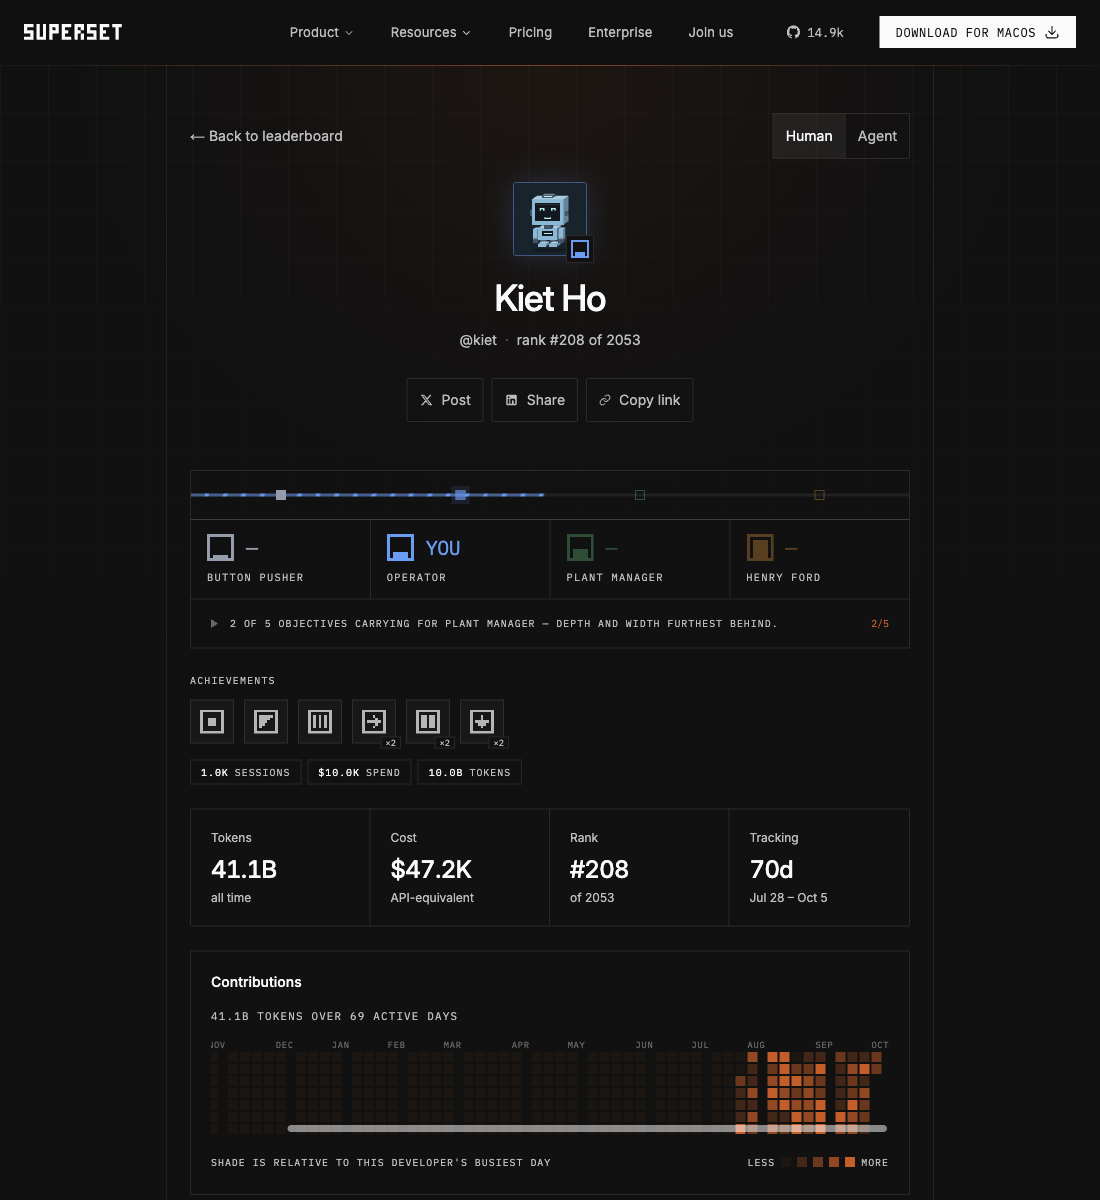
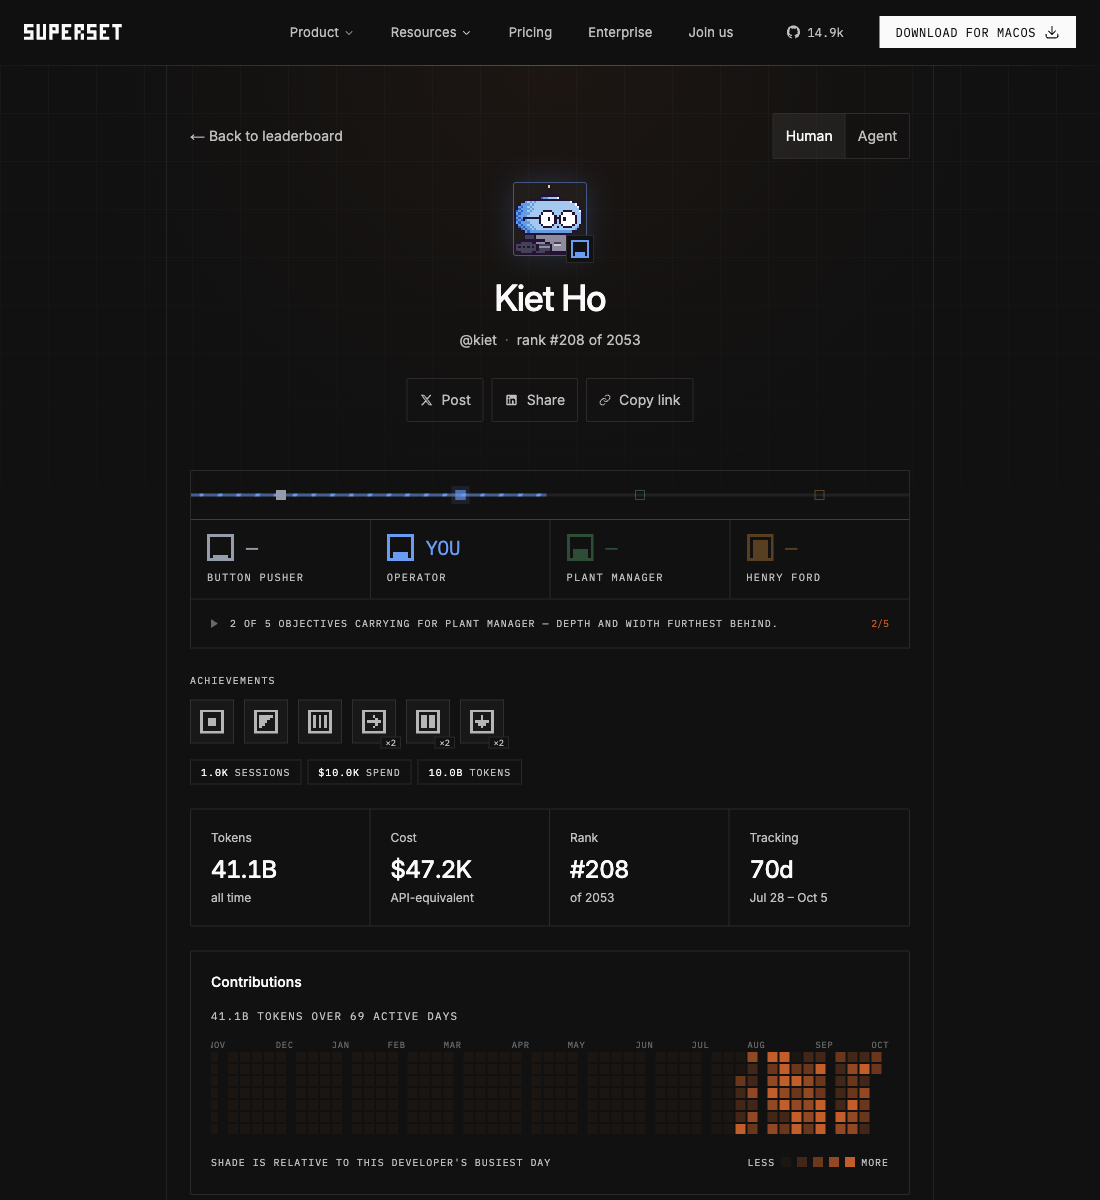
refactor(marketing): share Pixabots identities across profiles and fights

Changed region(s): [[0.2473, 0.925, 0.8036, 0.9558], [0.4636, 0.1542, 0.5255, 0.2158]]

diff --git a/apps/marketing/src/app/[lang]/fight/components/FighterSprite/FighterSprite.tsx b/apps/marketing/src/app/[lang]/fight/components/FighterSprite/FighterSprite.tsx
@@ -1,5 +1,5 @@
-import { seededId } from "@pixabots/core";
 import { Pixabot } from "@pixabots/react";
+import { avatarId } from "@/app/[lang]/utils/avatarUrl";
 import type { FrameName } from "./frames";
 
 interface FighterSpriteProps {
@@ -27,7 +27,7 @@ export function FighterSprite({
 	const running = frame === "run1" || frame === "run3";
 	return (
 		<Pixabot
-			id={seededId(identity.toLowerCase())}
+			id={avatarId(identity)}
 			size={256}
 			animated={false}
 			alt={title}

diff --git a/apps/marketing/src/app/[lang]/utils/avatarUrl/avatarUrl.ts b/apps/marketing/src/app/[lang]/utils/avatarUrl/avatarUrl.ts
@@ -1,3 +1,9 @@
+import { seededId } from "@pixabots/core";
+
+export function avatarId(handle: string): string {
+	return seededId(handle.toLowerCase());
+}
+
 export function avatarUrl(handle: string): string {
-	return `/api/leaderboard-avatar/${encodeURIComponent(handle.toLowerCase())}?v=2`;
+	return `https://pixabots.com/api/pixabot/${avatarId(handle)}?size=256`;
 }

diff --git a/apps/marketing/src/app/[lang]/user/[handle]/page.tsx b/apps/marketing/src/app/[lang]/user/[handle]/page.tsx
@@ -133,7 +133,7 @@ export default async function UserProfilePage({ params }: PageProps) {
 						width={72}
 						height={72}
 						unoptimized
-						className="size-18 rounded-[2px] bg-foreground/[0.04]"
+						className="size-18 rounded-[2px] bg-foreground/[0.04] [image-rendering:pixelated]"
 						style={
 							tint
 								? {

diff --git a/apps/marketing/src/app/[lang]/leaderboard/components/LeaderboardBoard/components/LeaderboardTable/components/DeveloperAvatar/DeveloperAvatar.tsx b/apps/marketing/src/app/[lang]/leaderboard/components/LeaderboardBoard/components/LeaderboardTable/components/DeveloperAvatar/DeveloperAvatar.tsx
@@ -11,7 +11,7 @@ export function DeveloperAvatar({ handle }: { handle: string }) {
 			width={SIZE}
 			height={SIZE}
 			unoptimized
-			className="size-8 shrink-0 rounded-[2px] bg-foreground/[0.04]"
+			className="size-8 shrink-0 rounded-[2px] bg-foreground/[0.04] [image-rendering:pixelated]"
 		/>
 	);
 }

diff --git a/apps/marketing/src/app/[lang]/utils/avatarUrl/index.ts b/apps/marketing/src/app/[lang]/utils/avatarUrl/index.ts
@@ -1,1 +1,1 @@
-export { avatarUrl } from "./avatarUrl";
+export { avatarId, avatarUrl } from "./avatarUrl";
